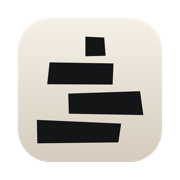
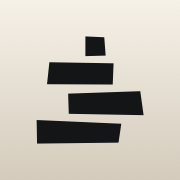
fix(icône): un carré plein pour l'écran d'accueil
L'icône de Cairn portait un cadre blanc sur l'écran d'accueil de l'iPhone,
là où les autres vont bord à bord. Signalé, capture à l'appui, et les pixels
le disent : l'ancienne icône était transparente jusqu'à dix pixels du bord.
iOS compose ce vide sur du blanc, puis pose son propre masque arrondi.

La cause est en amont. `make-icon.swift` dessine une icône **macOS** : une
plaque arrondie posée sur du vide, avec 9,77 % de marge. C'est ce que le Dock
attend — une icône qui remplirait son carré y serait plus grosse que toutes
les autres — et c'est exactement l'inverse de ce que veulent les écrans
d'accueil, qui masquent eux-mêmes. Le même fichier servait aux deux.

Le script gagne une sortie web : fond à bord perdu, aucun coin arrondi, rien
de transparent.

    swift Tools/make-icon.swift --web web/public

Le champ des pierres garde la même part du **carré** dans les deux dessins,
59,5 %, et non la même part de la plaque : à bord perdu, cela les aurait
fait grossir d'un quart et le masque d'iOS leur aurait rogné les angles.
C'est aussi ce qui permet de déclarer les icônes `maskable` — elles tiennent
dans les 60 % du centre, la zone qu'Android promet de ne pas découper.

diff --git a/Tools/make-icon.swift b/Tools/make-icon.swift
@@ -5,10 +5,20 @@ import AppKit
 // checked-in art alone so the shape can be tweaked and regenerated.
 //
 // Usage: swift Tools/make-icon.swift <chemin/AppIcon.appiconset>
+//        swift Tools/make-icon.swift --web <chemin/public>
+//
+// Deux dessins pour un seul tracé, et il faut dire pourquoi. Le Dock de macOS
+// attend une plaque posée sur du vide : une icône qui remplirait son carré y
+// serait plus grosse que toutes les autres. iOS et Android attendent l'inverse
+// — un carré plein, qu'ils masquent eux-mêmes — et composent ce qui est
+// transparent sur du **blanc**. Le même fichier aux deux endroits donnait donc
+// un cadre blanc autour de l'icône sur l'écran d'accueil du téléphone.
+// Signalé le 31 août 2026.
 
-let outputPath = CommandLine.arguments.count > 1
-    ? CommandLine.arguments[1]
-    : "Cairn/Assets.xcassets/AppIcon.appiconset"
+let pourLeWeb = CommandLine.arguments.contains("--web")
+let chemins = CommandLine.arguments.dropFirst().filter { $0 != "--web" }
+let outputPath = chemins.first
+    ?? (pourLeWeb ? "web/public" : "Cairn/Assets.xcassets/AppIcon.appiconset")
 let output = URL(filePath: outputPath)
 
 /// The four slabs, traced off the reference image and normalised to its ink box.
@@ -30,7 +40,10 @@ let slabs: [[(x: CGFloat, y: CGFloat)]] = [
 /// Not `NSImage.lockFocus`: that renders at the screen's backing scale, so on a
 /// Retina Mac every file came out twice its declared size and the asset catalog
 /// warned about all ten of them.
-func drawIcon(size: CGFloat) -> NSBitmapImageRep {
+/// - Parameter pleinBord: le fond couvre tout le carré, sans marge ni coins
+///   arrondis, et rien n'est transparent. Ce que veulent les écrans d'accueil,
+///   qui posent leur propre masque par-dessus.
+func drawIcon(size: CGFloat, pleinBord: Bool = false) -> NSBitmapImageRep {
     let pixels = Int(size)
     guard let rep = NSBitmapImageRep(
         bitmapDataPlanes: nil, pixelsWide: pixels, pixelsHigh: pixels,
@@ -50,9 +63,9 @@ func drawIcon(size: CGFloat) -> NSBitmapImageRep {
     // macOS icons leave a margin: the artwork is a rounded square filling about
     // 80 % of the canvas, not the canvas itself. The reference is a transparent
     // silhouette, but an icon without a plate reads as a broken image in the Dock.
-    let inset = size * 0.0977
+    let inset = pleinBord ? 0 : size * 0.0977
     let box = CGRect(x: inset, y: inset, width: size - 2 * inset, height: size - 2 * inset)
-    let radius = box.width * 0.225
+    let radius = pleinBord ? 0 : box.width * 0.225
 
     let plate = NSBezierPath(roundedRect: box, xRadius: radius, yRadius: radius)
     NSGraphicsContext.saveGraphicsState()
@@ -65,7 +78,13 @@ func drawIcon(size: CGFloat) -> NSBitmapImageRep {
     )?.draw(in: box, angle: -90)
     NSGraphicsContext.restoreGraphicsState()
 
-    let field = box.insetBy(dx: box.width * 0.13, dy: box.height * 0.13)
+    // Le champ des pierres garde la même part du carré dans les deux dessins —
+    // 59,5 %, ce que la plaque du Dock lui laisse — plutôt que la même part de
+    // la plaque : à bord perdu, cette dernière l'aurait fait grossir d'un
+    // quart, et le masque d'iOS lui aurait rogné les angles.
+    let field = pleinBord
+        ? box.insetBy(dx: size * 0.2023, dy: size * 0.2023)
+        : box.insetBy(dx: box.width * 0.13, dy: box.height * 0.13)
     NSColor(srgbRed: 0.075, green: 0.082, blue: 0.090, alpha: 1).setFill()
     for slab in slabs {
         let path = NSBezierPath()
@@ -98,10 +117,19 @@ let variants: [(name: String, pixels: CGFloat)] = [
     ("icon_512x512", 512), ("icon_512x512@2x", 1024),
 ]
 
+/// Les trois que le téléphone lit : `apple-touch-icon`, et les deux du
+/// manifeste. Dessinées à leur taille réelle comme les autres.
+let variantesWeb: [(name: String, pixels: CGFloat)] = [
+    ("icone-180", 180), ("icone-192", 192), ("icone-512", 512),
+]
+
 try FileManager.default.createDirectory(at: output, withIntermediateDirectories: true)
-for variant in variants {
+for variant in pourLeWeb ? variantesWeb : variants {
     // Drawn at the real pixel count so small sizes stay crisp instead of being a
     // downscale of the 1024 version.
-    try write(drawIcon(size: variant.pixels), to: output.appending(path: "\(variant.name).png"))
+    try write(
+        drawIcon(size: variant.pixels, pleinBord: pourLeWeb),
+        to: output.appending(path: "\(variant.name).png")
+    )
 }
 print("icônes écrites dans \(output.path)")

diff --git a/web/vite.config.ts b/web/vite.config.ts
@@ -41,9 +41,23 @@ export default defineConfig({
         // avant une application sombre est un éclair dans les yeux le soir.
         background_color: "#000000",
         theme_color: "#000000",
+        // « maskable » en plus de « any » : les icônes sont désormais à bord
+        // perdu et opaques, et leurs pierres tiennent dans les 60 % du centre —
+        // la zone qu'Android promet de ne pas rogner, quelle que soit la forme
+        // que le lanceur découpe. Voir `Tools/make-icon.swift`.
         icons: [
-          { src: "/icone-192.png", sizes: "192x192", type: "image/png" },
-          { src: "/icone-512.png", sizes: "512x512", type: "image/png" },
+          {
+            src: "/icone-192.png",
+            sizes: "192x192",
+            type: "image/png",
+            purpose: "any maskable",
+          },
+          {
+            src: "/icone-512.png",
+            sizes: "512x512",
+            type: "image/png",
+            purpose: "any maskable",
+          },
         ],
       },
       workbox: {
